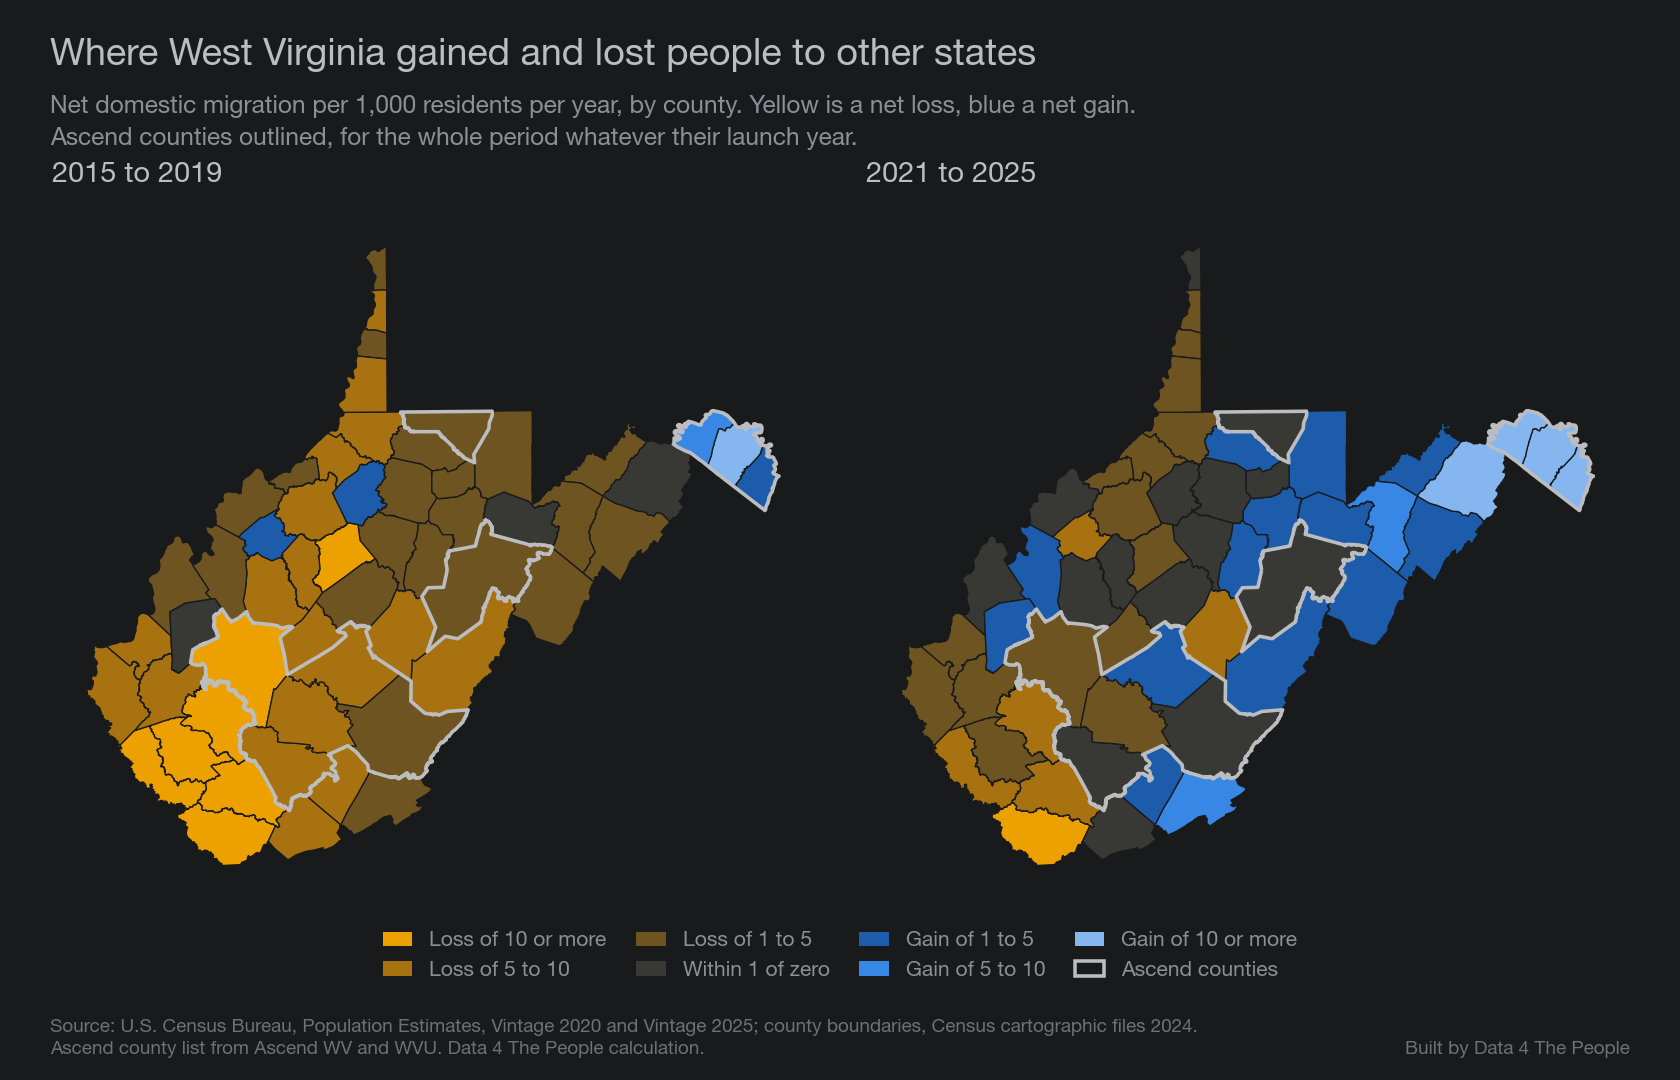
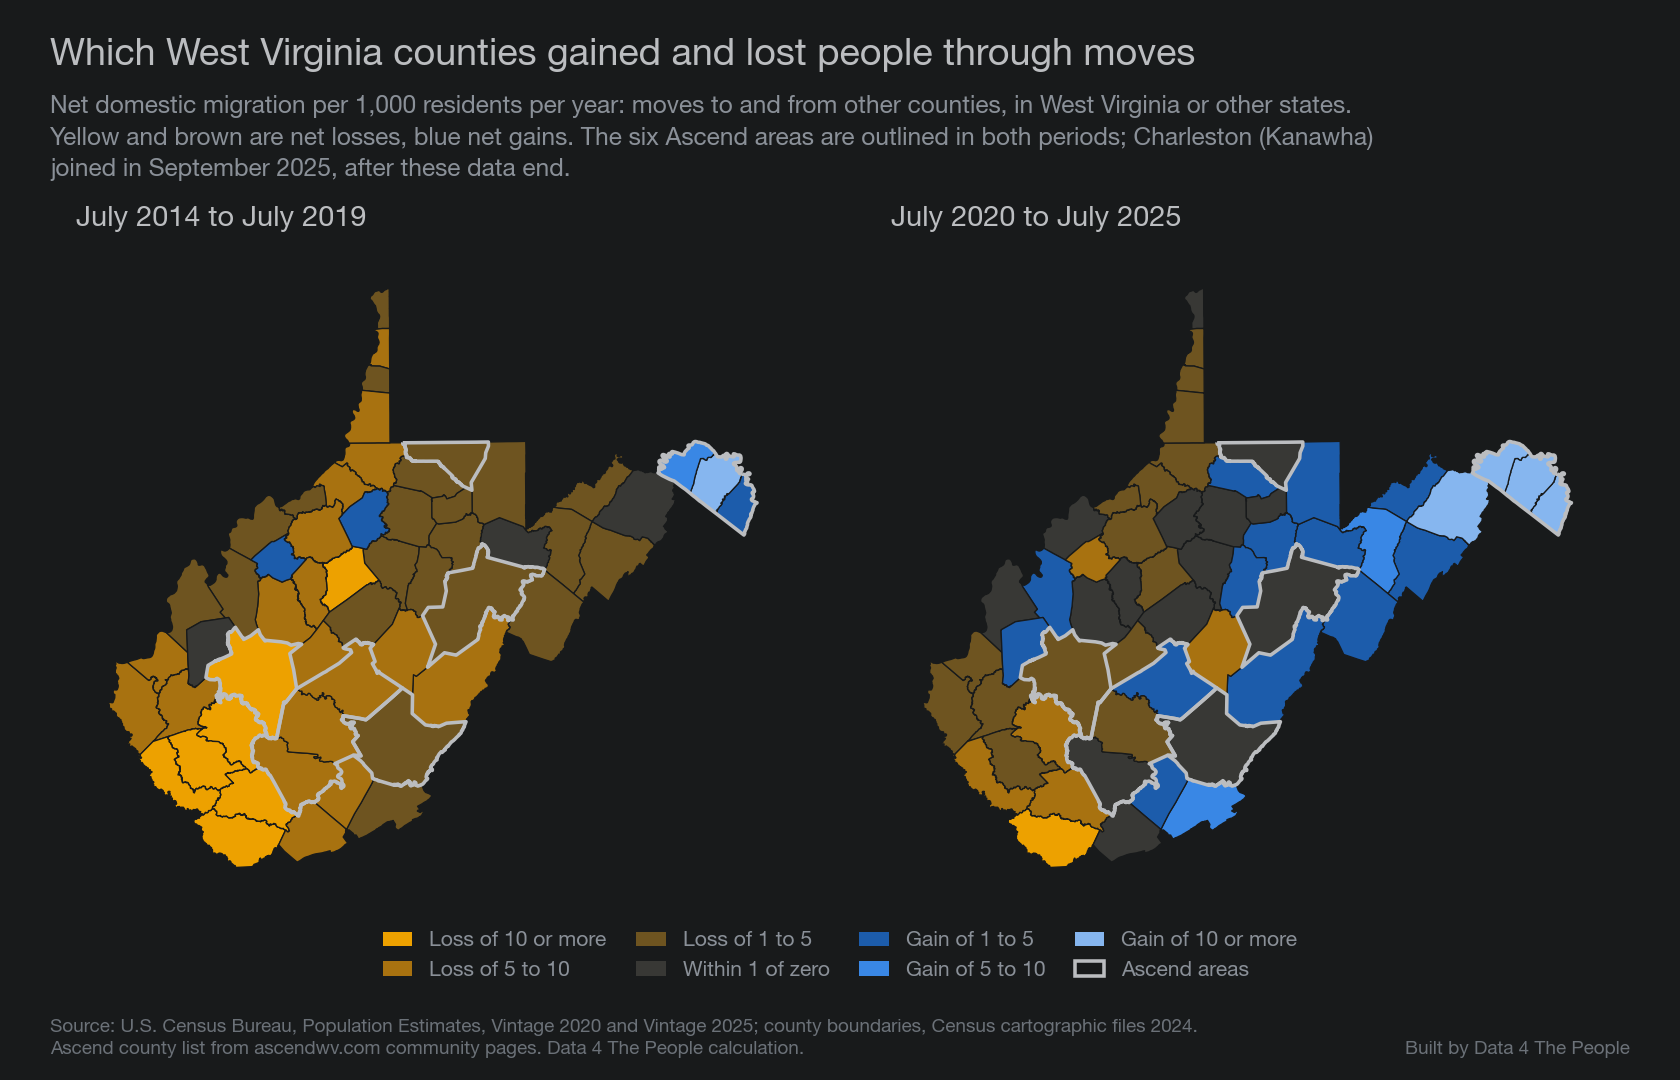
west-virginia-ascend: fixes from the independent check of the county map
Title no longer says 'to other states' (county figures include moves between WV counties; now in
DATASETS.md), July-to-July panel labels, outlines per Ascend area, Charleston timing noted.

diff --git a/scripts/99_tieout.py b/scripts/99_tieout.py
@@ -155,10 +155,14 @@ WORDS = [
     ("Chart 1 note 'two vintages use different Census bases and are not revised to match'", "supported",
      "Census methodology page and V2025 methods statement"),
     ("Chart 3 'Rank among 50 states and D.C.'", "supported", "51 state rows recomputed above"),
-    ("Map legend 'Ascend counties' outline: the 10 counties of the six Ascend areas", "partly supported",
-     "Same county list as chart 4; inferred from community pages"),
-    ("Map 'Yellow is a net loss, blue a net gain'; gray is within 1 per 1,000 of zero", "supported",
-     "Bins recomputed above from raw Census files"),
+    ("Map outlines the six Ascend areas (10 counties)", "partly supported",
+     "Same county list as chart 4; inferred from ascendwv.com community pages"),
+    ("Map 'moves to and from other counties, in West Virginia or other states'", "supported",
+     "County domestic migration counts moves between any two U.S. counties (Census components of change)"),
+    ("Map panel labels 'July 2014 to July 2019' and 'July 2020 to July 2025'", "supported",
+     "Years end July 1; DOMESTICMIG2015-2019 and 2021-2025"),
+    ("Map 'Charleston (Kanawha) joined in September 2025, after these data end'", "supported",
+     "ascend_communities.csv: applications opened 2025-09-05; data end July 1, 2025"),
     ("Chart 4 county lists for each Ascend area", "partly supported",
      "Inferred from school systems on ascendwv.com community pages; program says '30-minute drivetime'"),
     ("Chart 5 'Goal: 1,000 remote workers in five years (Sept. 2021)'", "supported",
@@ -251,7 +255,18 @@ lines += ["", "## Independent tie-out (fresh agent, November 14, 2026)", "",
           "two ways; 25 babies appears in both the end-2025 snapshot and the Q3 2026 report; reworded the "
           "DATASETS 'Not checked' line now that the report has been read.",
           "- Could not check from this source: the $25M Smith gift, $2.4M Rural Health and $500K Charleston "
-          "donation (documented elsewhere in DATASETS.md)."]
+          "donation (documented elsewhere in DATASETS.md).",
+          "", "## Independent tie-out of the county map (fresh agent, November 18, 2026)", "",
+          "Recomputed all 55 counties from the raw Census files and read the color of every county on both "
+          "panels (110 checks) and every shared border for the outline.", "",
+          "- All 110 colors and the bin counts matched; exactly the Ascend counties are outlined. Only Roane "
+          "2021-2025 (-0.98) is within 0.05 of a bin edge.",
+          "- Fixed after its word checks: the title said 'to other states', but county figures include moves "
+          "between West Virginia counties (now said in the subtitle and DATASETS.md); panel labels now give "
+          "July-to-July periods; outlines now drawn per Ascend area; subtitle notes Charleston joined after the "
+          "data end; source line names ascendwv.com; 'yellow and brown' for the loss bins.",
+          "- Could not check: whether the PNG came from the same downloaded files (it used the files in "
+          "data/raw/popest)."]
 (ROOT / "TIEOUT.md").write_text("\n".join(lines) + "\n")
 print(f"{len(rows) - len(bad)} of {len(rows)} match")
 for r in bad:

diff --git a/scripts/07_map.py b/scripts/07_map.py
@@ -49,27 +49,29 @@ def main():
     geo = geo.merge(cc, on="fips").to_crs(26917)   # UTM 17N
 
     comm = pd.read_csv(ROOT / "data" / "ascend_communities.csv")
-    asc_fips = {int(f) for fs in comm.fips for f in str(fs).split(";")}
-    ascend = geo[geo.fips.isin(asc_fips)]
+    area = {int(f): r.community for r in comm.itertuples() for f in str(r.fips).split(";")}
+    ascend = geo[geo.fips.isin(area)].assign(area=lambda d: d.fips.map(area))
 
     use_house_style()
     fig, axes = plt.subplots(1, 2, figsize=(10.5, 6.75))
-    fig.subplots_adjust(top=0.80, bottom=0.17, left=0.02, right=0.98, wspace=0.02)
-    for ax, col, label in [(axes[0], "rate_2015_2019", "2015 to 2019"), (axes[1], "rate_2021_2025", "2021 to 2025")]:
+    fig.subplots_adjust(top=0.76, bottom=0.17, left=0.02, right=0.98, wspace=0.02)
+    for ax, col, label in [(axes[0], "rate_2015_2019", "July 2014 to July 2019"),
+                            (axes[1], "rate_2021_2025", "July 2020 to July 2025")]:
         geo.plot(ax=ax, color=[color(v) for v in geo[col]], edgecolor=SURFACE, linewidth=0.6)
-        ascend.dissolve().boundary.plot(ax=ax, color=INK, linewidth=1.6)
+        ascend.dissolve(by="area").boundary.plot(ax=ax, color=INK, linewidth=1.6)
         ax.set_title(label, color=INK, fontsize=13, loc="left", pad=4)
         ax.set_axis_off()
         ax.set_aspect("equal")
     handles = [Patch(facecolor=c, edgecolor="none", label=t) for _, _, c, t in BINS]
-    handles.append(Patch(facecolor="none", edgecolor=INK, linewidth=1.6, label="Ascend counties"))
+    handles.append(Patch(facecolor="none", edgecolor=INK, linewidth=1.6, label="Ascend areas"))
     fig.legend(handles=handles, loc="lower center", ncol=4, frameon=False, fontsize=9.5,
                labelcolor=INK_DIM, bbox_to_anchor=(0.5, 0.075), handlelength=1.4, columnspacing=1.4)
-    titleblock(fig, "Where West Virginia gained and lost people to other states",
-               "Net domestic migration per 1,000 residents per year, by county. Yellow is a net loss, blue a "
-               "net gain.\nAscend counties outlined, for the whole period whatever their launch year.")
+    titleblock(fig, "Which West Virginia counties gained and lost people through moves",
+               "Net domestic migration per 1,000 residents per year: moves to and from other counties, in West "
+               "Virginia or other states.\nYellow and brown are net losses, blue net gains. The six Ascend areas "
+               "are outlined in both periods; Charleston (Kanawha)\njoined in September 2025, after these data end.")
     credit(fig, "Source: U.S. Census Bureau, Population Estimates, Vintage 2020 and Vintage 2025; county "
-                "boundaries, Census cartographic files 2024.\nAscend county list from Ascend WV and WVU. "
+                "boundaries, Census cartographic files 2024.\nAscend county list from ascendwv.com community pages. "
                 "Data 4 The People calculation.")
     out = ROOT / "charts" / "04-county-migration-map.png"
     fig.savefig(out)

diff --git a/TIEOUT.md b/TIEOUT.md
@@ -113,8 +113,10 @@ Generated by `scripts/99_tieout.py`. Numbers recomputed from `data/raw/` with pa
 | Chart 1 marker 'First Ascend class of 53 announced Sept. 2021' | supported | Ascend release Sept 2, 2021: 'The 53 class members...'; independent tie-out found 'arrive' only partly supported |
 | Chart 1 note 'two vintages use different Census bases and are not revised to match' | supported | Census methodology page and V2025 methods statement |
 | Chart 3 'Rank among 50 states and D.C.' | supported | 51 state rows recomputed above |
-| Map legend 'Ascend counties' outline: the 10 counties of the six Ascend areas | partly supported | Same county list as chart 4; inferred from community pages |
-| Map 'Yellow is a net loss, blue a net gain'; gray is within 1 per 1,000 of zero | supported | Bins recomputed above from raw Census files |
+| Map outlines the six Ascend areas (10 counties) | partly supported | Same county list as chart 4; inferred from ascendwv.com community pages |
+| Map 'moves to and from other counties, in West Virginia or other states' | supported | County domestic migration counts moves between any two U.S. counties (Census components of change) |
+| Map panel labels 'July 2014 to July 2019' and 'July 2020 to July 2025' | supported | Years end July 1; DOMESTICMIG2015-2019 and 2021-2025 |
+| Map 'Charleston (Kanawha) joined in September 2025, after these data end' | supported | ascend_communities.csv: applications opened 2025-09-05; data end July 1, 2025 |
 | Chart 4 county lists for each Ascend area | partly supported | Inferred from school systems on ascendwv.com community pages; program says '30-minute drivetime' |
 | Chart 5 'Goal: 1,000 remote workers in five years (Sept. 2021)' | supported | Ascend release Sept 2, 2021 |
 | Chart 5 every dot | supported | each row in data/ascend_reported.csv carries URL and quote |
@@ -170,3 +172,11 @@ Read all 23 pages of the saved PDF, text and rendered images.
 - Every claim and all five rows supported; no number errors. No Ascend spending, incentives paid, operating cost or cost per member anywhere in the report.
 - Added after its notes: the 618 includes members 'in the process of relocating'; 1,161 is labeled two ways; 25 babies appears in both the end-2025 snapshot and the Q3 2026 report; reworded the DATASETS 'Not checked' line now that the report has been read.
 - Could not check from this source: the $25M Smith gift, $2.4M Rural Health and $500K Charleston donation (documented elsewhere in DATASETS.md).
+
+## Independent tie-out of the county map (fresh agent, November 18, 2026)
+
+Recomputed all 55 counties from the raw Census files and read the color of every county on both panels (110 checks) and every shared border for the outline.
+
+- All 110 colors and the bin counts matched; exactly the Ascend counties are outlined. Only Roane 2021-2025 (-0.98) is within 0.05 of a bin edge.
+- Fixed after its word checks: the title said 'to other states', but county figures include moves between West Virginia counties (now said in the subtitle and DATASETS.md); panel labels now give July-to-July periods; outlines now drawn per Ascend area; subtitle notes Charleston joined after the data end; source line names ascendwv.com; 'yellow and brown' for the loss bins.
+- Could not check: whether the PNG came from the same downloaded files (it used the files in data/raw/popest).

diff --git a/DATASETS.md b/DATASETS.md
@@ -23,6 +23,13 @@ residual. Each year runs July 1 to June 30 and is labeled by the year it ends.
 vintage revises every year back to the last census and replaces the one before.
 We use the latest vintage for each decade.
 
+**County figures include moves within West Virginia.** At the state level,
+net domestic migration is moves to and from other states. At the county level
+it is moves to and from every other county, including counties in West
+Virginia. A county's gain can be another West Virginia county's loss, so county
+and area figures (chart 4, the map, the Eastern Panhandle comparison) do not
+show moves to and from other states alone.
+
 **How domestic migration is estimated.** It is a model, not a count. The
 Bureau computes migration rates from IRS tax returns (ages 0 to 64), Medicare
 enrollment (65 and older), Social Security records (for age) and changes in
